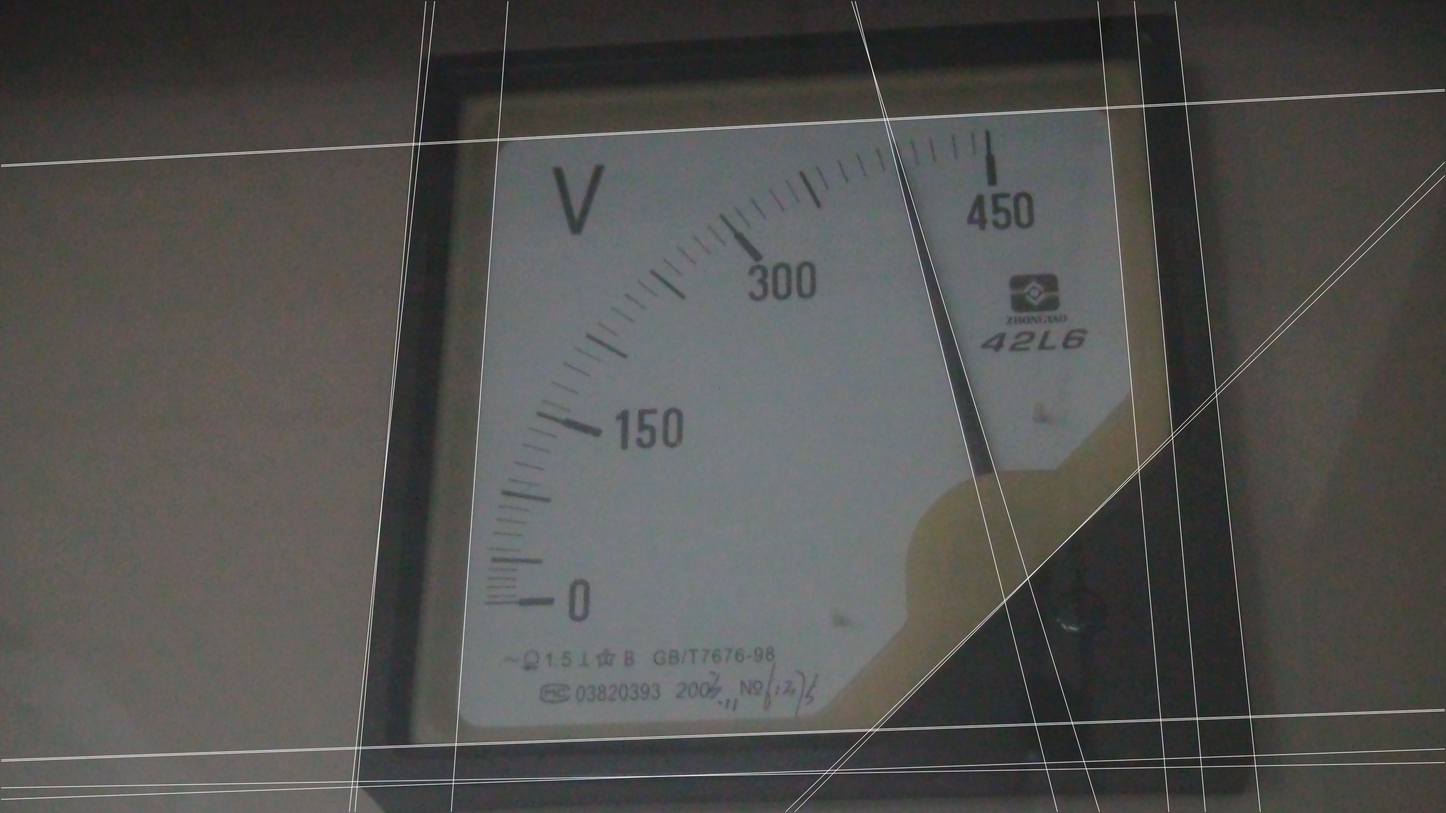
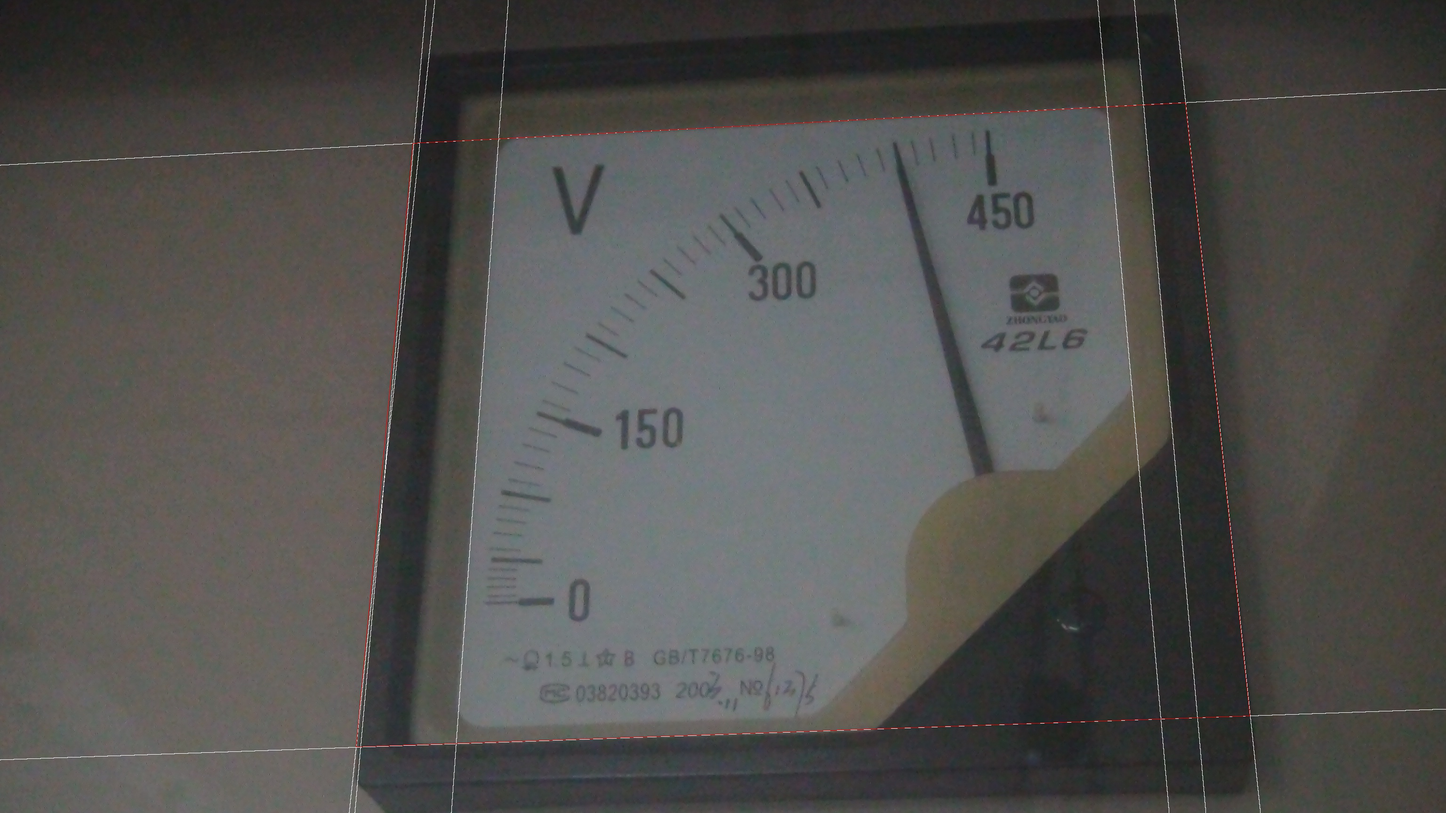
通过精确霍夫变换的各种阈值，能够找到表盘的边框并且通过透视变换矫正图像

diff --git a/ReadingMeters/Main.cpp b/ReadingMeters/Main.cpp
@@ -26,6 +26,9 @@ using namespace std;
 Mat mergeRows(Mat A, Mat B);
 Mat mergeCols(Mat A, Mat B);
 Mat transformProcess(Mat srcImage, Mat dstImage);
+vector<Point2f> getIntersections(vector<vector<float>> edgelines);
+vector<Point2f> getFourTops(vector<vector<float>> edgelines, Mat srcImage);
+vector<vector<float>> getEdgelines(vector<vector<float>> edgelines, vector<Vec2f> lines);
 
 int main() {
 	printf("\n\n<<<<<<<<<<<<  ReadingMeters v0.0.2  >>>>>>>>>>>>\n\n");
@@ -143,7 +146,7 @@ Mat transformProcess(Mat srcImage, Mat dstImage) {
 	//--------------------Hough Transform
 	vector<Vec2f> lines;
 	HoughLines(dstImage, lines, 1, CV_PI / 180, HOUGH_THRESHOL, 0, 0);
-	float rho_f = 0.0, theta_f = 0.0;
+	
 
 	//--------------------bubble select (in the order of "rho")
 	int bubble_flag = 1;
@@ -162,23 +165,163 @@ Mat transformProcess(Mat srcImage, Mat dstImage) {
 		}
 	}
 
-	vector<vector<double>> edgelines;
+	vector<vector<float>> edgelines;
+	edgelines = getEdgelines(edgelines, lines);
+	
+	//imwrite("2_hough.jpg", srcImage);
+
+	vector<Point2f> corners_new = getFourTops(edgelines, srcImage);
+
+	Point2f a = corners_new[0];
+	Point2f b = corners_new[1];
+	Point2f c = corners_new[2];
+	Point2f d = corners_new[3];
+
+	//特殊情况特殊处理，只处理了一种情况，后面遇到再加
+	if (a.x == 0 && a.y == 0 && b.x == (float)srcImage.cols && b.y == 0) {
+		vector <float> linesinf;
+		linesinf.push_back(0); linesinf.push_back(CV_PI/2); linesinf.push_back(0.0);
+		edgelines.push_back(linesinf);
+
+		corners_new = getFourTops(edgelines, srcImage);
+		a = corners_new[0];
+		b = corners_new[1];
+		c = corners_new[2];
+		d = corners_new[3];
+	}
+
+	line(srcImage, a, b, Scalar(0, 0, 255),3); printf("a:(%f,%f)\n", a.x, a.y);
+	line(srcImage, b, c, Scalar(0, 0, 255),3); printf("b:(%f,%f)\n", b.x, b.y);
+	line(srcImage, c, d, Scalar(0, 0, 255),3); printf("c:(%f,%f)\n", c.x, c.y);
+	line(srcImage, d, a, Scalar(0, 0, 255),3); printf("d:(%f,%f)\n", d.x, d.y);
+	//line(srcImage, Point(0, 0), Point(srcImage.cols, srcImage.rows), Scalar(0, 255, 0));
+
+	//return srcImage;
+
+	float trans_len = ((b.x - a.x) > (c.x - d.x)) ? (b.x - a.x) : (c.x - d.x);
+	float trans_hei = ((d.y - a.y) > (c.y - b.y)) ? (d.y - a.y) : (c.y - b.y);
+	vector<Point2f> corners(4);
+	corners[0] = Point2f(0,0);
+	corners[1] = Point2f(trans_len,0);
+	corners[2] = Point2f(trans_len,trans_hei);
+	corners[3] = Point2f(0,trans_hei);
+
+	corners_new[0] = (Point2f)a; 
+	corners_new[1] = (Point2f)b; 
+	corners_new[2] = (Point2f)c; 
+	corners_new[3] = (Point2f)d;
+
+	//printf("old:(%d,%d),new:(%d,%d)\n", corners[3].x, corners[3].y, corners_new[3].x, corners_new[3].y);
+
+	Mat transform = getPerspectiveTransform(corners_new, corners);
+
+	vector<Point2f> points, points_trans;
+	for (int i = 0; i<srcImage.rows; i++) {
+		for (int j = 0; j<srcImage.cols; j++) {
+			points.push_back(Point2f(j, i));
+		}
+	}
+
+	//perspectiveTransform(points, points_trans, transform);
+
+	Mat transImage(trans_hei, trans_len, CV_32FC2);
+	warpPerspective(srcImage, transImage, transform, transImage.size());
+
+	return transImage;
+}
+
+vector<Point2f> getIntersections(vector<vector<float>> edgelines) {
+	vector<Point2f> intersections;
+	for (size_t i = 0; i < edgelines.size(); i++) {
+		for (size_t j = i + 1; j < edgelines.size(); j++) {
+			if (edgelines[i][2] != edgelines[j][2]) {
+				float r1 = edgelines[i][0], r2 = edgelines[j][0];
+				float theta1 = edgelines[i][1], theta2 = edgelines[j][1];
+				double a1 = cos(theta1), b1 = sin(theta1);
+				double a2 = cos(theta2), b2 = sin(theta2);
+				double x = (b1*r2 - b2*r1) / (a2*b1 - a1*b2);
+				double y = (a1*r2 - a2*r1) / (a1*b2 - a2*b1);
+				Point2f p = Point2f((float)x, (float)y);
+				intersections.push_back(p);
+				//printf("(%f,%f)\n", p.x, p.y);
+			}
+		}
+	}
+	return intersections;
+}
+
+vector<Point2f> getFourTops(vector<vector<float>> edgelines, Mat srcImage) {
+	//求出所有直线交点
+	vector<Point2f> intersections = getIntersections(edgelines);
+
+	Point2f a = Point2f(0, 0), b = Point2f(srcImage.cols, 0),
+		c = Point2f(srcImage.cols, srcImage.rows), d = Point2f(0, srcImage.rows);
+
+	int total = srcImage.rows + srcImage.cols;
+	float len_a = total, len_b = total, len_c = total, len_d = total;
+
+	for (int i = 0; i < intersections.size(); i++) {
+		Point2f p = intersections[i];
+		if (p.x <= (srcImage.cols / 2) && p.y <= (srcImage.rows / 2)) {
+			float len = sqrt(p.x*p.x + p.y*p.y);
+			if (len < len_a) {
+				len_a = len;
+				a = p;
+				//printf("<a>:(%f,%f),<p>:(%f,%f)\n",a.x,a.y,p.x,p.y);
+			}
+		}
+		else if (p.x >(srcImage.cols / 2) && p.y < (srcImage.rows / 2)) {
+			float len = sqrt((p.x - srcImage.cols)*(p.x - srcImage.cols) + p.y*p.y);
+			if (len < len_b) {
+				len_b = len;
+				b = p;
+			}
+		}
+		else if (p.x >= (srcImage.cols / 2) && p.y >= (srcImage.rows / 2)) {
+			float len = sqrt((p.x - srcImage.cols)*(p.x - srcImage.cols)
+				+ (p.y - srcImage.rows)*(p.y - srcImage.rows));
+			if (len < len_c) {
+				len_c = len;
+				c = p;
+			}
+		}
+		else if (p.x < (srcImage.cols / 2) && p.y >(srcImage.rows / 2)) {
+			float len = sqrt(p.x*p.x + (p.y - srcImage.rows)*(p.y - srcImage.rows));
+			if (len < len_d) {
+				len_d = len;
+				d = p;
+			}
+		}
+	}
+
+	vector<Point2f> corners_new(4);
+	corners_new[0] = (Point2f)a;
+	corners_new[1] = (Point2f)b;
+	corners_new[2] = (Point2f)c;
+	corners_new[3] = (Point2f)d;
+
+	return corners_new;
+}
+
+vector<vector<float>> getEdgelines(vector<vector<float>> edgelines, vector<Vec2f> lines) {
+	float rho_f = 0.0, theta_f = 0.0;
 	for (size_t i = 0; i < lines.size(); i++) {
 		float rho = lines[i][0], theta = lines[i][1];
 		//get out of nearby lines
-		if (rho_f == 0.0 && theta_f == 0.0) { }
-		else if (((rho_f*(1 + ADJACENT_COEFFICIENT_R)) >= rho && (rho_f*(1 - ADJACENT_COEFFICIENT_R)) <= rho) 
+		if (rho_f == 0.0 && theta_f == 0.0) {}
+		else if (((rho_f*(1 + ADJACENT_COEFFICIENT_R)) >= rho && (rho_f*(1 - ADJACENT_COEFFICIENT_R)) <= rho)
 			&& ((theta_f*(1 + ADJACENT_COEFFICIENT_T)) >= theta && (theta_f*(1 - ADJACENT_COEFFICIENT_T)) <= theta)) {
 			continue;
 		}
 		rho_f = rho; theta_f = theta;
 		//get out of lines which is not frame
-		if ((theta >(CV_PI / 24) && theta < (( 11* CV_PI) / 24)) || 
-			(theta >(13*CV_PI / 24) && theta < ((23 * CV_PI) / 24)))
+		if ((theta >(CV_PI / 24) && theta < ((11 * CV_PI) / 24)) ||
+			(theta >(13 * CV_PI / 24) && theta < ((23 * CV_PI) / 24)))
 			continue;
-		printf("\trho:%f,\ttheta:%f\n", rho, theta);
-		//draw the line
-		Point pt1, pt2;
+		//printf("\trho:%f,\ttheta:%f\n", rho, theta);
+
+		//----------------draw the line
+		/*Point pt1, pt2;
 		double a = cos(theta), b = sin(theta);
 		double x0 = a*rho, y0 = b*rho;
 		pt1.x = cvRound(x0 + HOUGH_LINE_LEN*(-b));
@@ -186,20 +329,17 @@ Mat transformProcess(Mat srcImage, Mat dstImage) {
 		pt2.x = cvRound(x0 - HOUGH_LINE_LEN*(-b));
 		pt2.y = cvRound(y0 - HOUGH_LINE_LEN*(a));
 		line(srcImage, pt1, pt2, Scalar(255, 255, 255), 1, 4);
+		*/
+
 		//store the line which is qualified
-		vector<double> linesinf;
-		linesinf.push_back(a); linesinf.push_back(b); linesinf.push_back(rho);
+		float type;
+		if (theta <= (CV_PI / 24) || theta >= ((23 * CV_PI) / 24))
+			type = 1.0;
+		else
+			type = 0.0;
+		vector <float> linesinf;
+		linesinf.push_back(rho); linesinf.push_back(theta); linesinf.push_back(type);
 		edgelines.push_back(linesinf);
 	}
-	//imwrite("2_hough.jpg", srcImage);
-
-	//求出所有直线交点
-	vector<Point> intersections;
-	for (size_t i = 0; i < edgelines.size(); i++) {
-		for (size_t j = i + 1; j < edgelines.size(); j++) {
-
-		}
-	}
-	
-	return srcImage;
+	return edgelines;
 }
